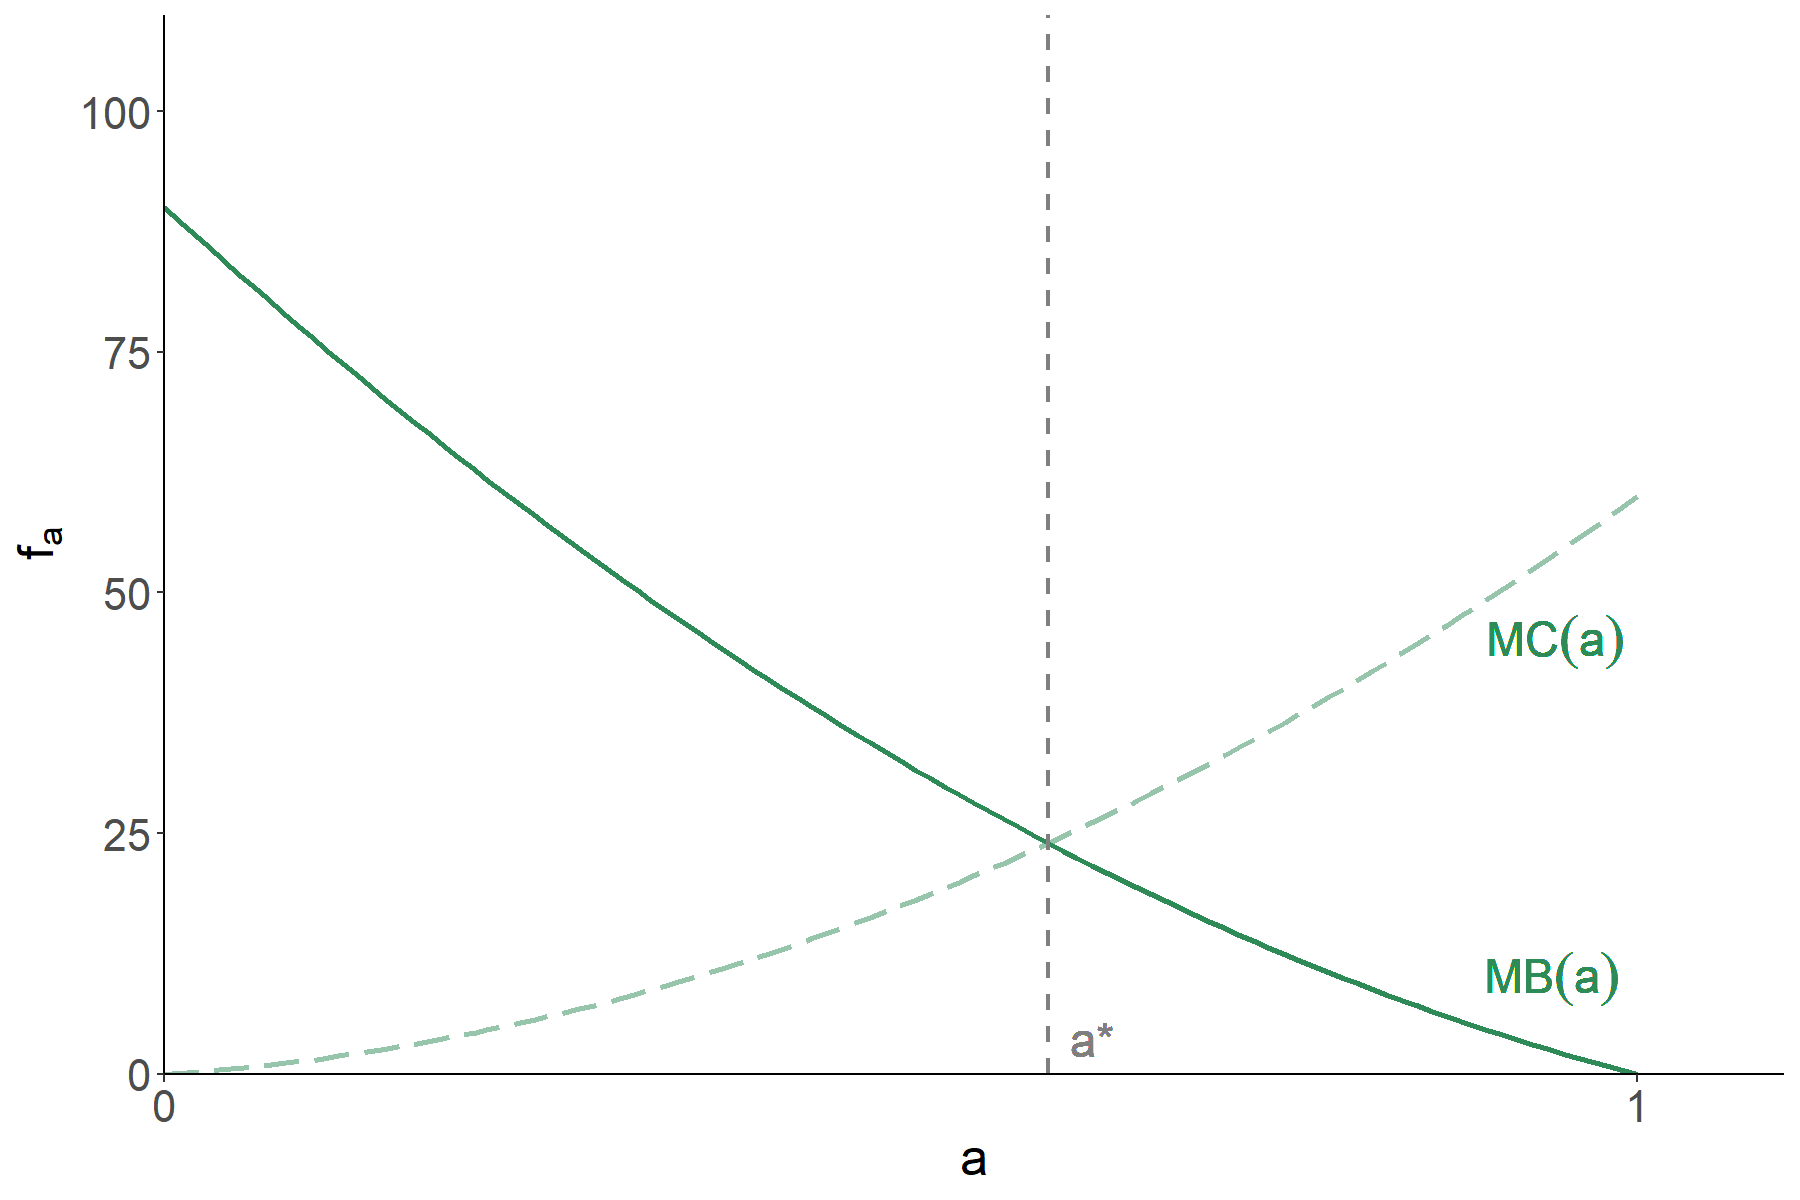
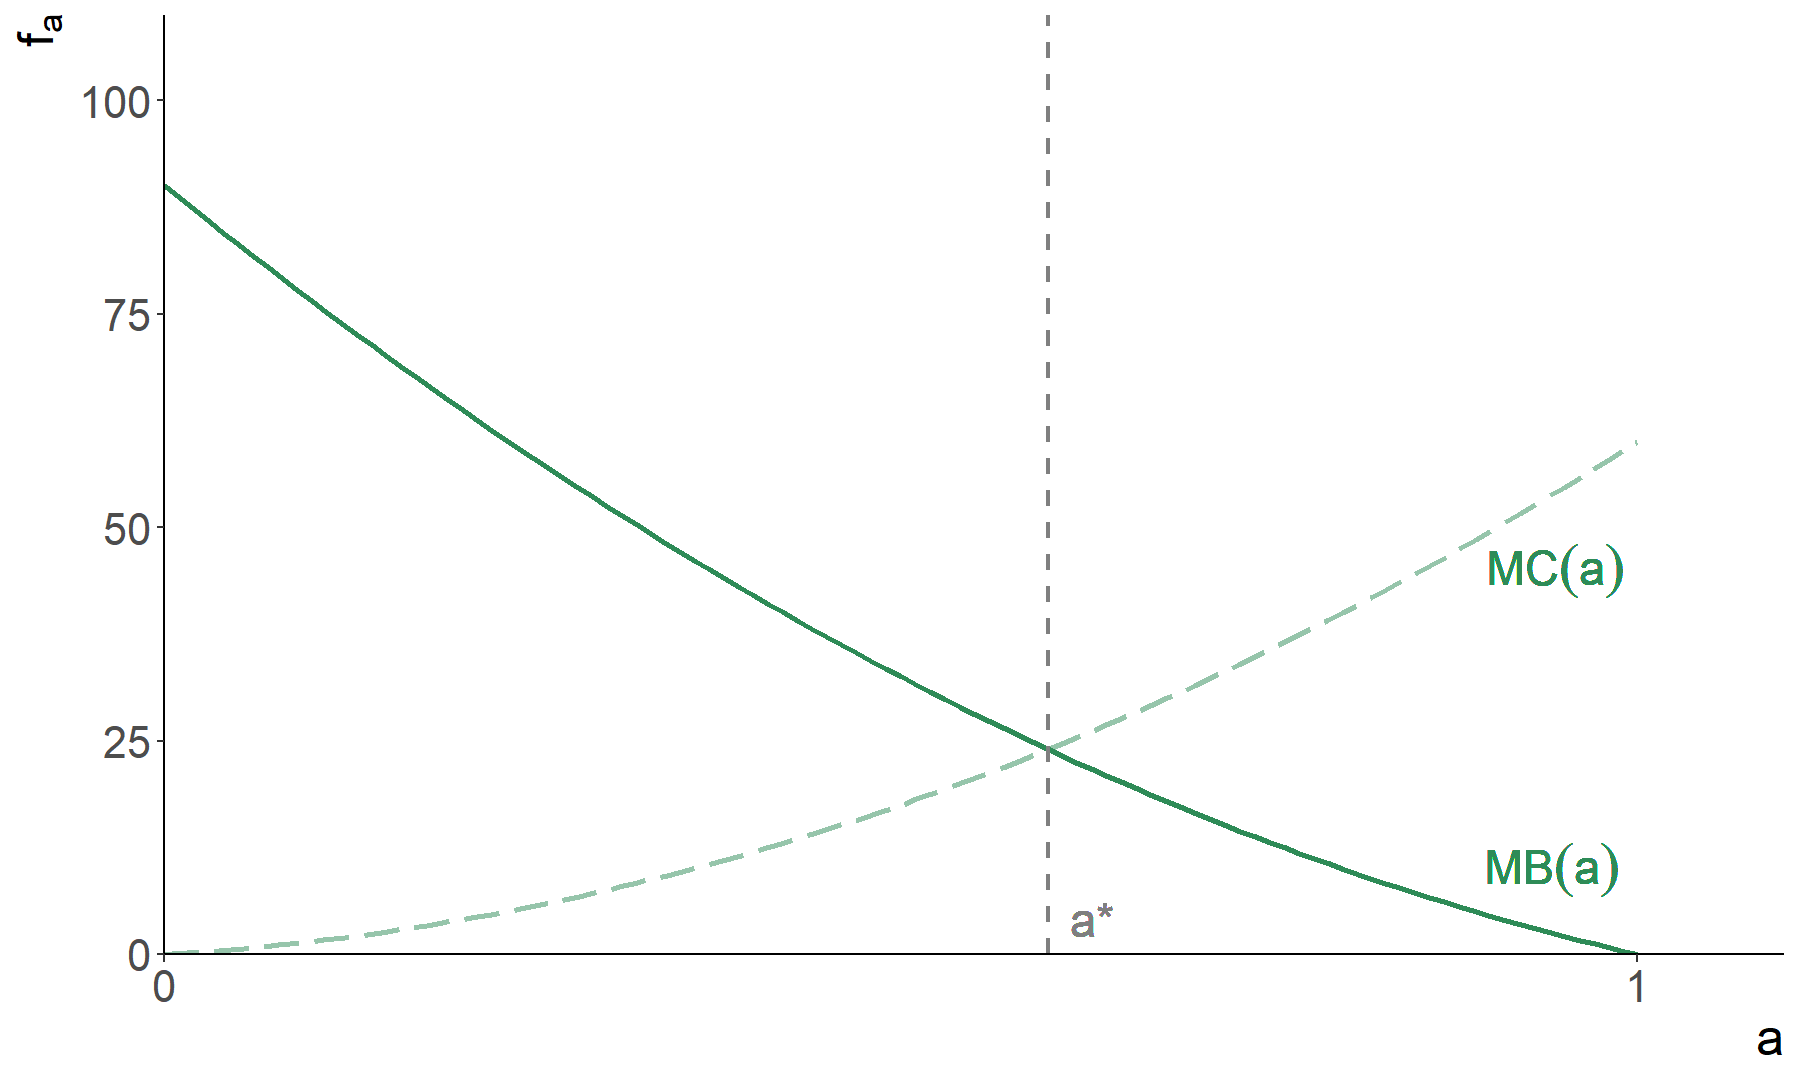
update: 20200917

diff --git a/05-Rights.html b/05-Rights.html
@@ -64,7 +64,7 @@ Let the firms' profits be given by: `\(\pi_s(a)\)` and `\(\pi_r(a)\)`, where `\(
 # Coase and the Assignment of Rights
 
 &lt;div class="figure" style="text-align: center"&gt;
-&lt;img src="05-Rights_files/figure-html/abatement-1.png" alt="Optimal Abatement"  /&gt;
+&lt;img src="05-Rights_files/figure-html/abatement-1.png" alt="Optimal Abatement" width="90%" /&gt;
 &lt;p class="caption"&gt;Optimal Abatement&lt;/p&gt;
 &lt;/div&gt;
 
